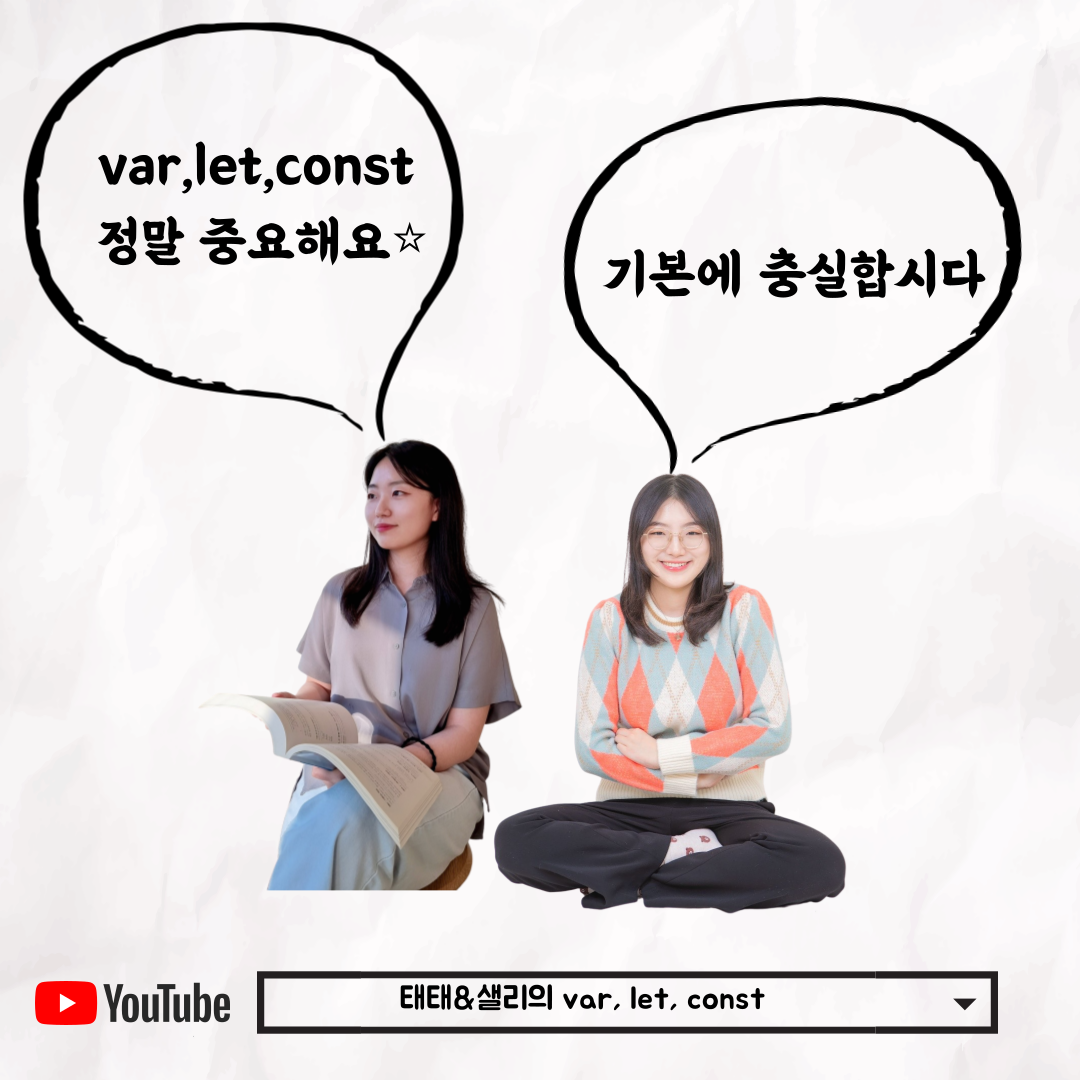
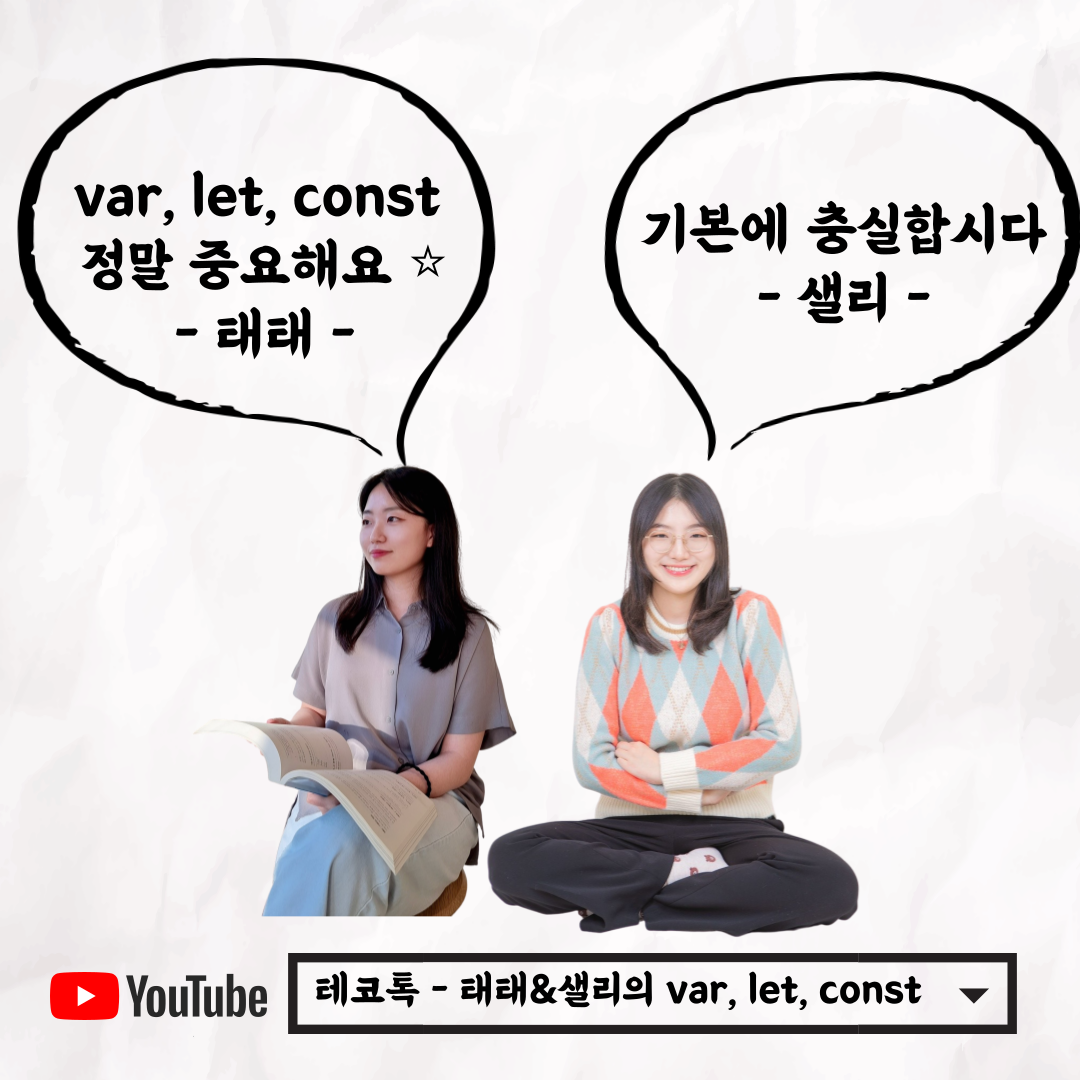
태태, 샐리 이름 추가 및 youtube 박스 안 네이밍 수정

Changed region(s): [[0.0, 0.0, 1.0, 0.9778], [0.6111, 0.0611, 0.9167, 0.1528], [0.7028, 0.3667, 0.825, 0.3972]]

diff --git a/테코톡_태태샐리/README.md b/테코톡_태태샐리/README.md
@@ -18,8 +18,6 @@
 
 ![](009.png)
 
-![](010.png)
-
 📮 테코톡
 
 주제: var, let, const 비교
